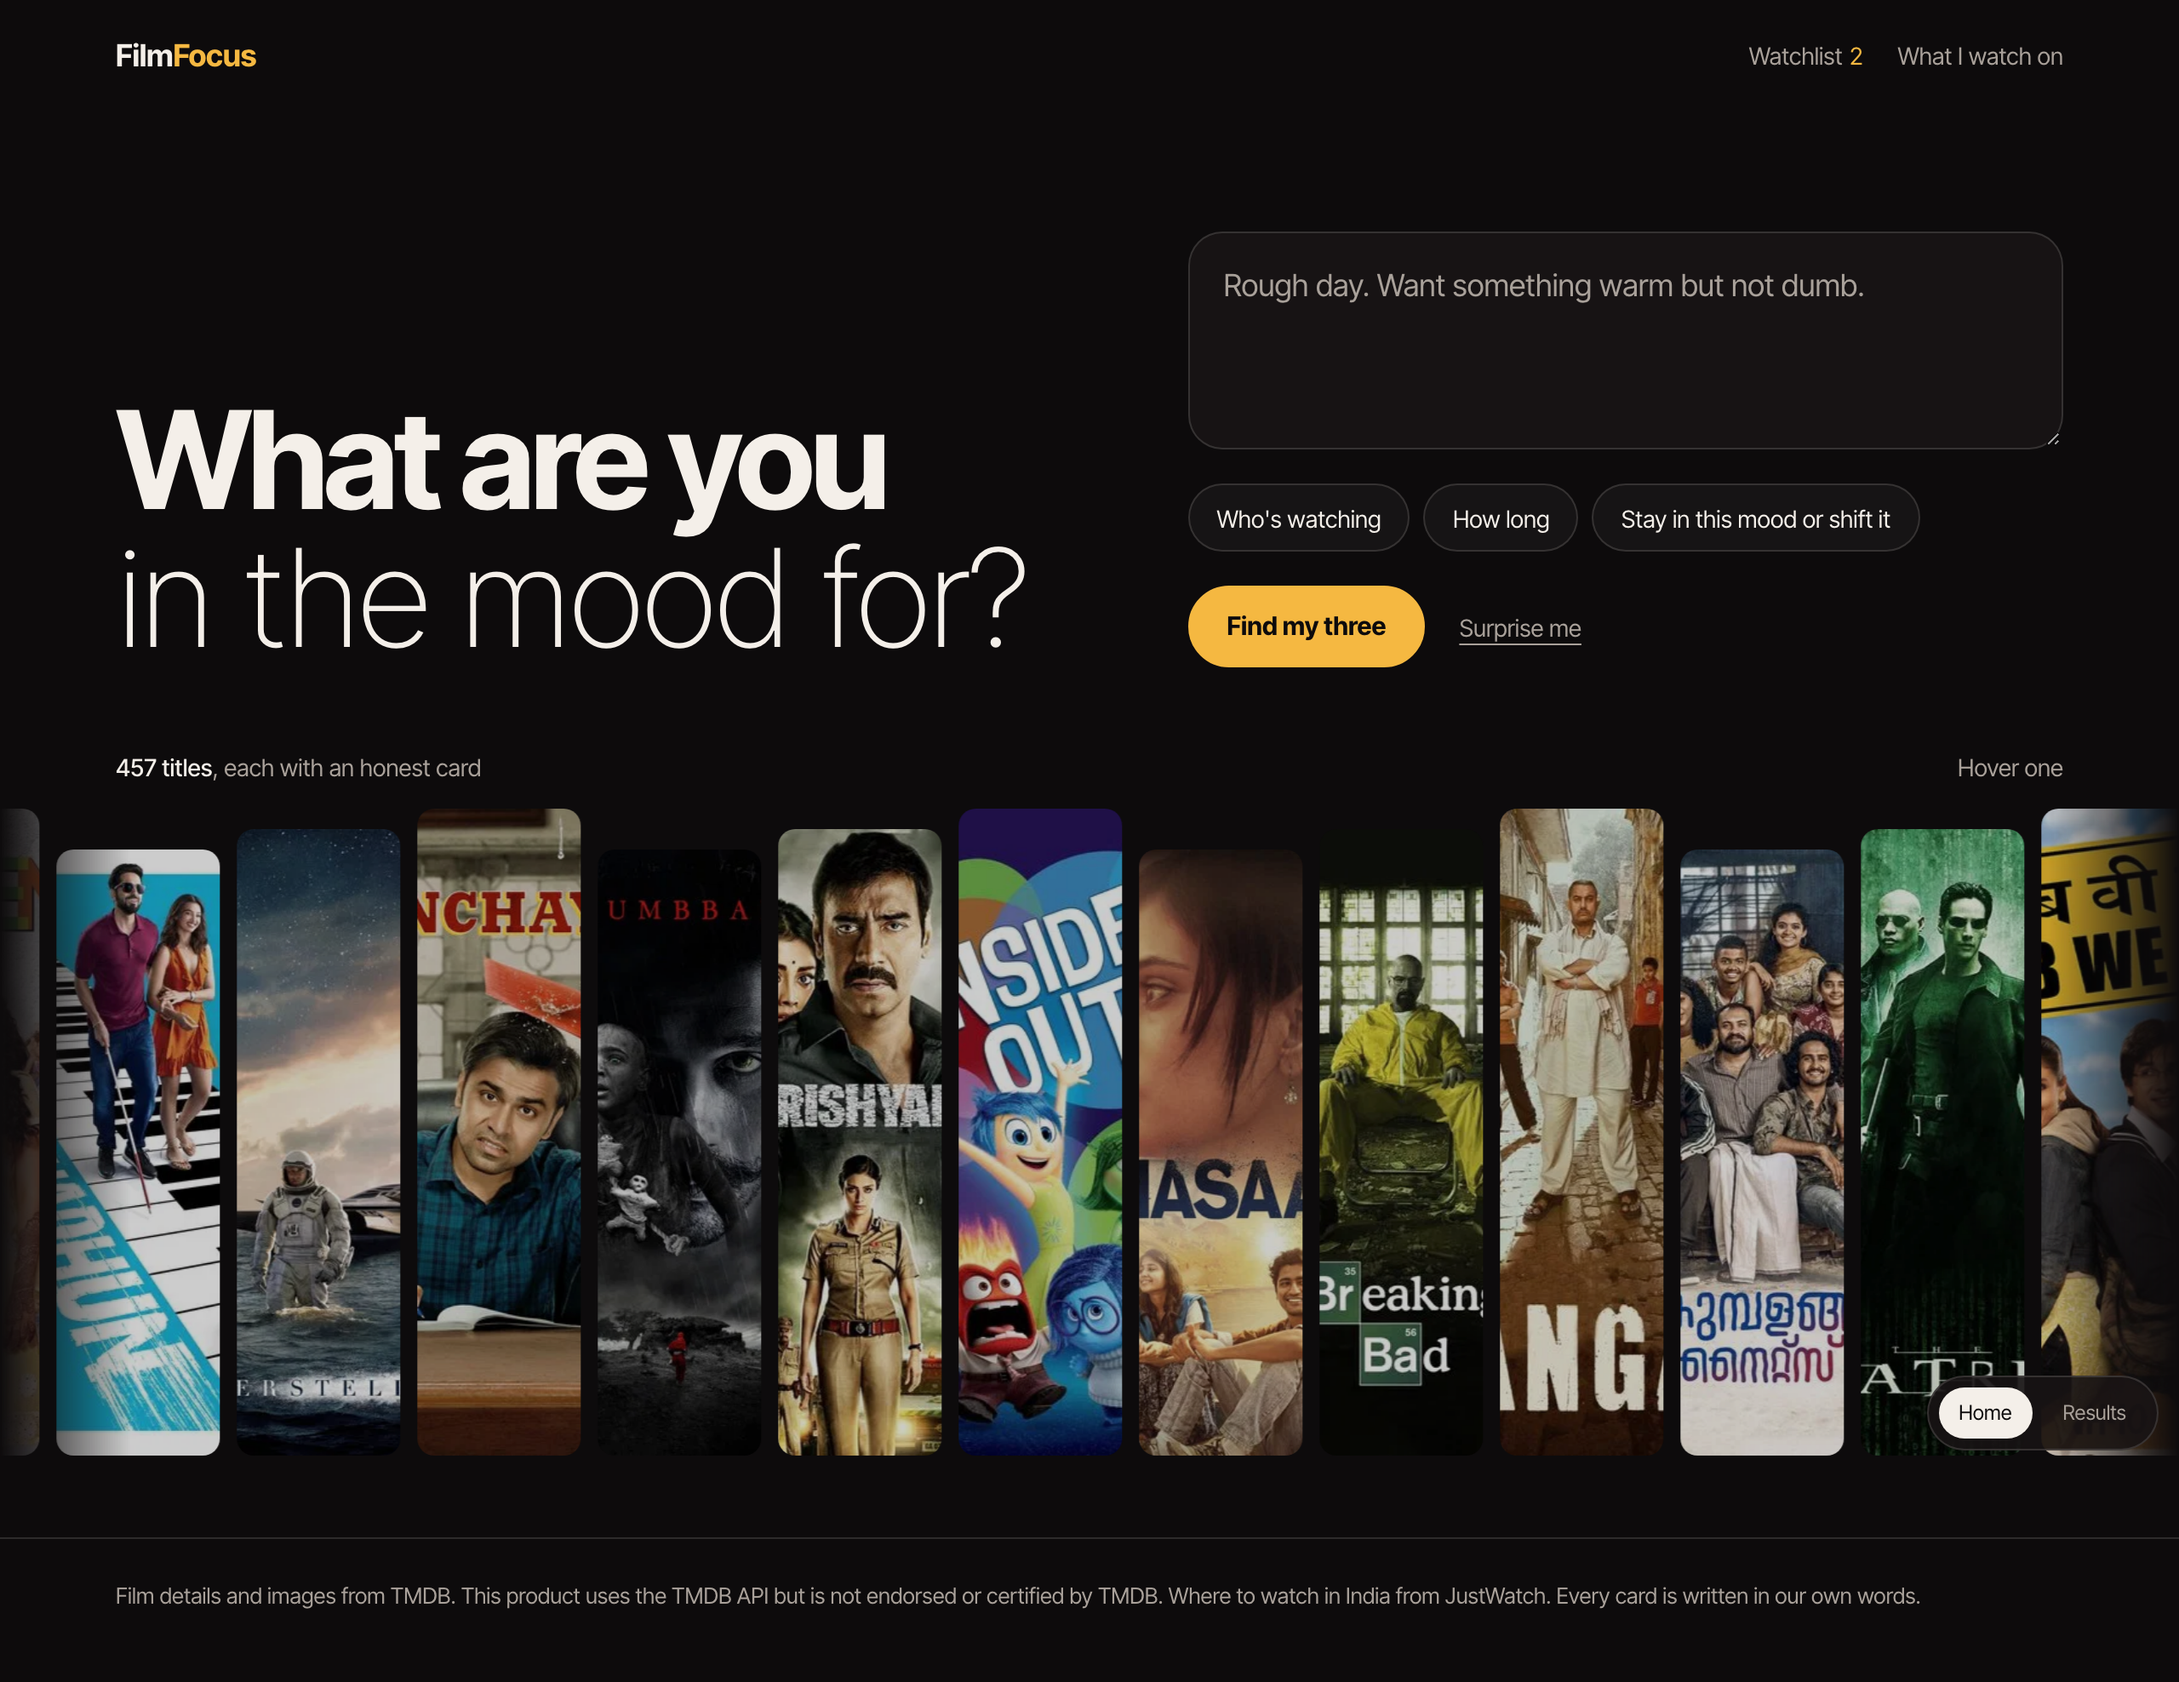
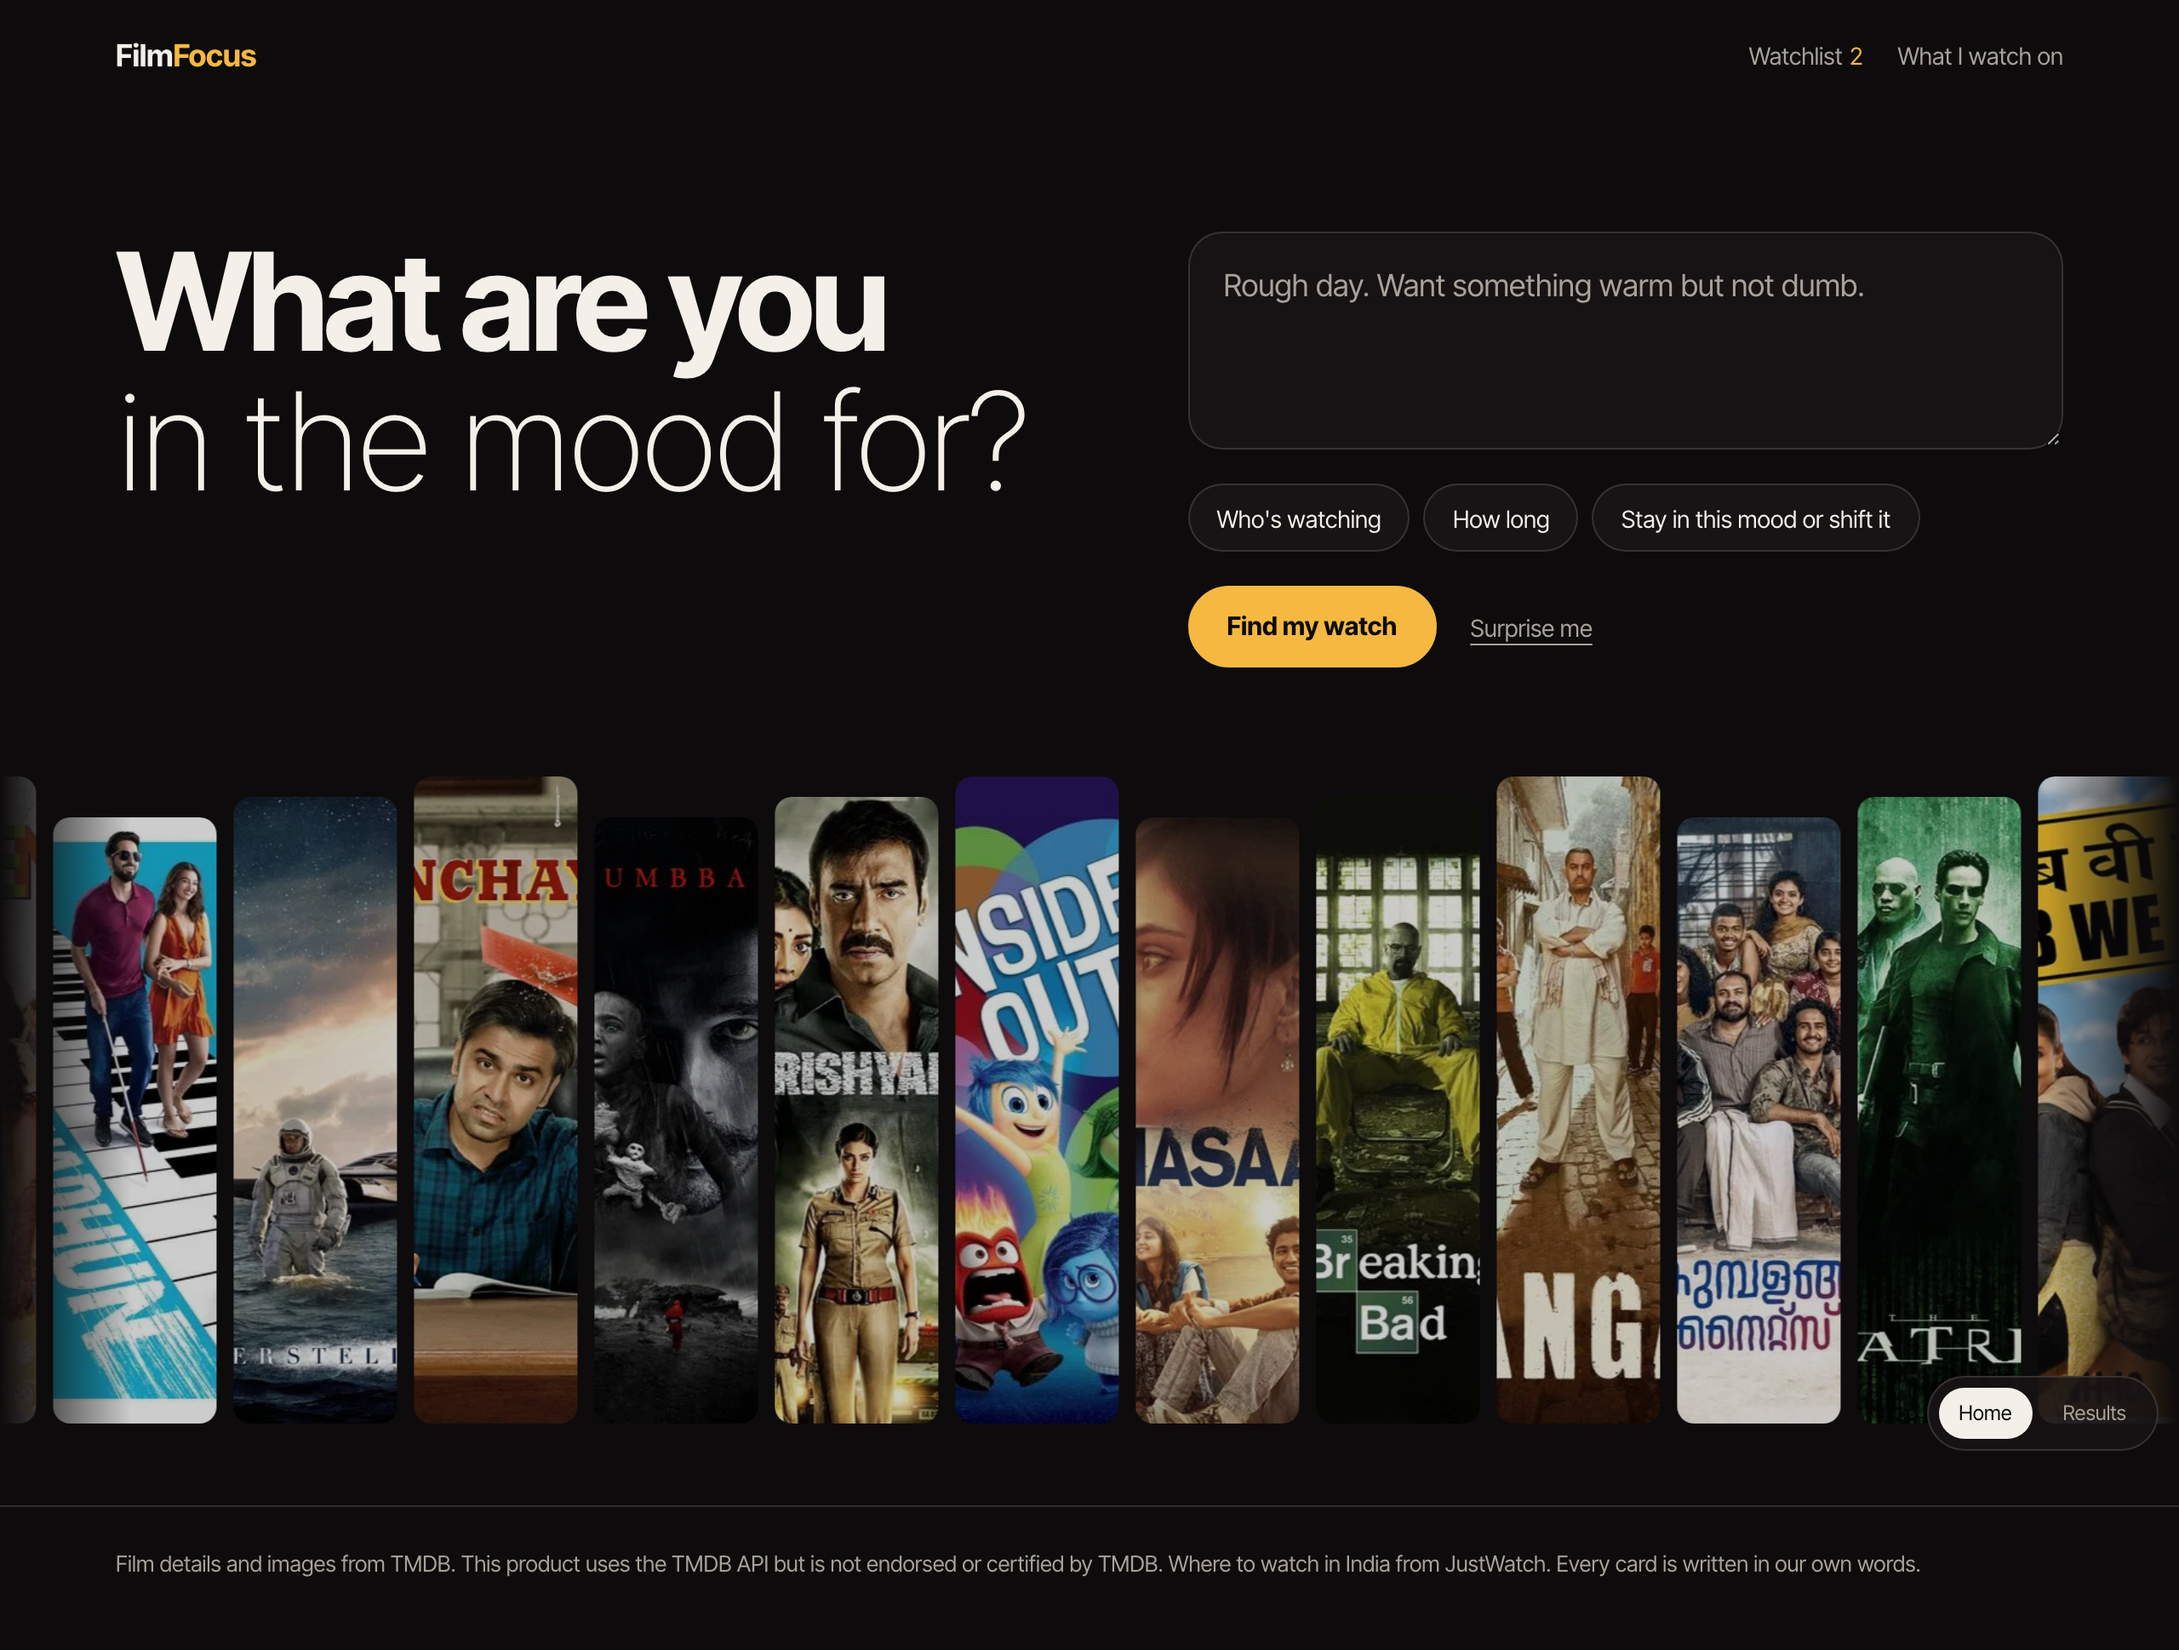
V2 mock: drop shelf label, top-align headline with the mood box, CTA 'Find my watch'

diff --git a/docs/design/v2/mock.html b/docs/design/v2/mock.html
@@ -53,7 +53,7 @@
   #home { display: none; }
   body.show-home #home { display: block; }
   .home-top { padding-block: 40px 32px; }
-  @media (min-width: 900px) { .home-top { padding-block: 72px 48px; display: grid; grid-template-columns: 1.1fr 1fr; gap: 64px; align-items: end; } }
+  @media (min-width: 900px) { .home-top { padding-block: 72px 48px; display: grid; grid-template-columns: 1.1fr 1fr; gap: 64px; align-items: start; } h1 { margin-top: -10px; } }
   h1 { font-weight: 700; font-size: 44px; line-height: 1.02; letter-spacing: -.035em; margin: 0 0 24px; }
   h1 em { font-style: normal; font-weight: 200; display: block; }
   @media (min-width: 900px) { h1 { font-size: 80px; margin: 0; } }
@@ -64,7 +64,7 @@
   .shelf-label { display: flex; justify-content: space-between; align-items: baseline; font-size: 14px; color: var(--muted); margin-bottom: 14px; }
   @media (hover: none) { .shelf-label .hint { display: none; } }
   .shelf-label b { color: var(--paper); font-weight: 500; }
-  .shelf { overflow: hidden; padding-bottom: 48px; -webkit-mask-image: linear-gradient(90deg, transparent, #000 6%, #000 94%, transparent); mask-image: linear-gradient(90deg, transparent, #000 6%, #000 94%, transparent); }
+  .shelf { overflow: hidden; padding-block: 16px 48px; -webkit-mask-image: linear-gradient(90deg, transparent, #000 6%, #000 94%, transparent); mask-image: linear-gradient(90deg, transparent, #000 6%, #000 94%, transparent); }
   .rail { display: flex; gap: 10px; width: max-content; animation: drift 90s linear infinite; }
   .shelf:hover .rail { animation-play-state: paused; }
   @keyframes drift { to { transform: translateX(-50%); } }
@@ -182,10 +182,9 @@
     <div class="ask">
       <textarea aria-label="Your mood" placeholder="Rough day. Want something warm but not dumb."></textarea>
       <div class="chips"><button class="chip">Who's watching</button><button class="chip">How long</button><button class="chip">Stay in this mood or shift it</button></div>
-      <div class="go"><button class="btn primary" onclick="show('results')">Find my three</button><button class="quiet">Surprise me</button></div>
+      <div class="go"><button class="btn primary" onclick="show('results')">Find my watch</button><button class="quiet">Surprise me</button></div>
     </div>
   </div>
-  <div class="wrap shelf-label"><span><b>457 titles</b>, each with an honest card</span><span class="hint">Hover one</span></div>
   <div class="shelf"><div class="rail" id="rail"></div></div>
 </main>
 
